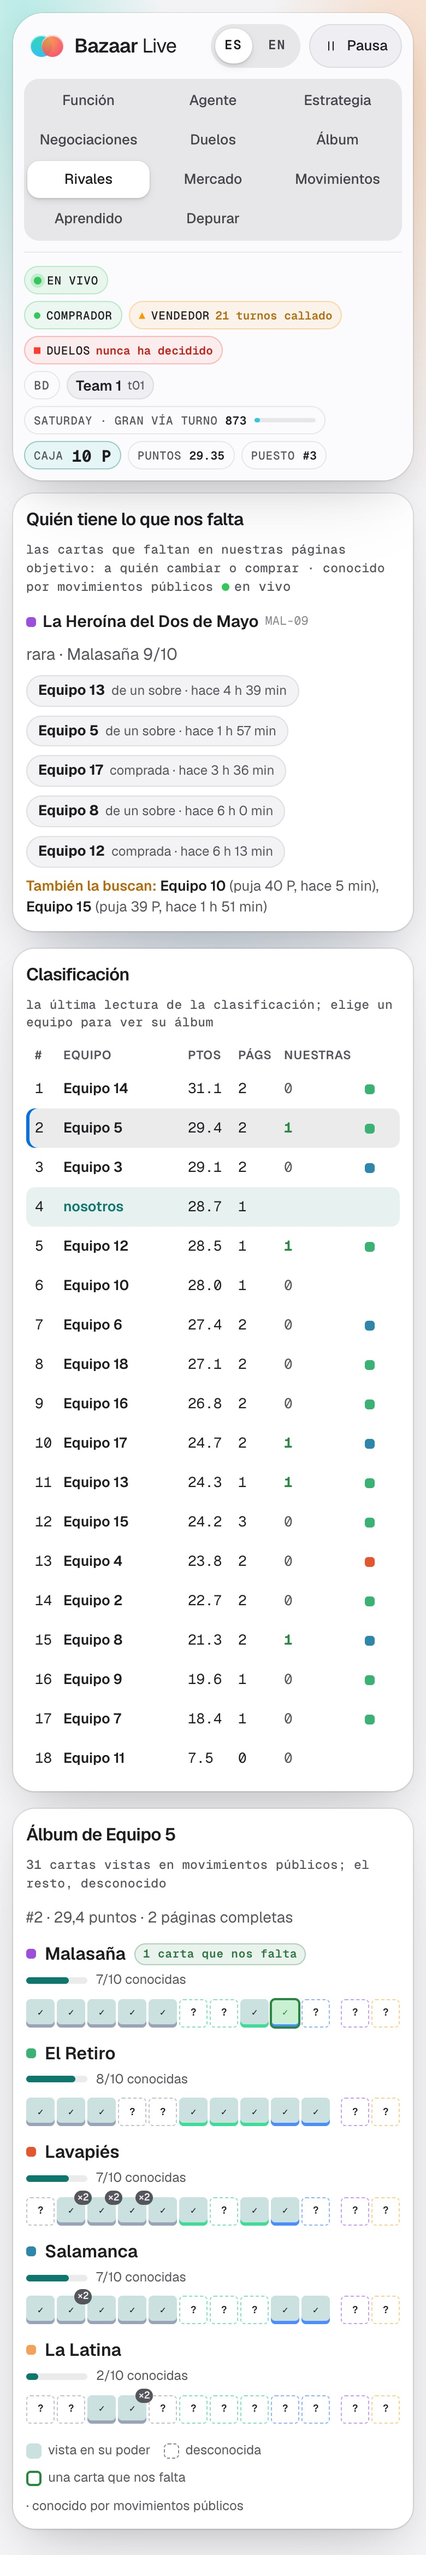
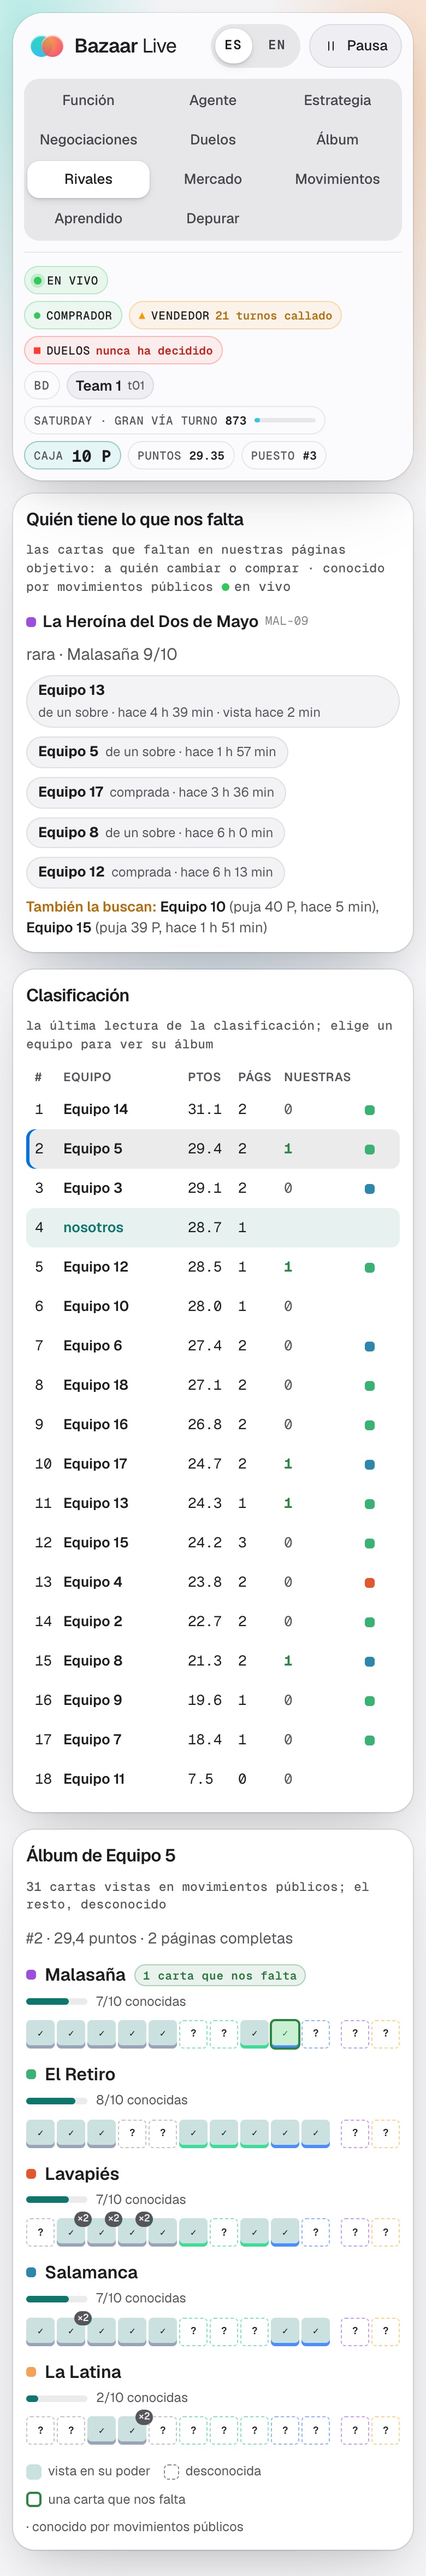
fix: rivals: a listing is a past sighting, the latest sighting on the chip, Los Pícaros by name, no unused helper

diff --git a/src/game/rivalStrings.ts b/src/game/rivalStrings.ts
@@ -22,6 +22,8 @@ export interface RivalStrings {
   /** "bought 3 min ago", for a holder chip's title and the album's cells. */
   readonly since: (how: HowKnown, ago: string) => string
   readonly seen: (ago: string) => string
+  /** On a holder chip: the latest sighting, when later than how it got the card. */
+  readonly seenLast: string
   readonly copies: (n: number) => string
   readonly nobody: string
   readonly dealers: (names: string) => string
@@ -72,9 +74,10 @@ const EN: RivalStrings = {
   needs: 'Who has what we need',
   needsSub: 'the cards our target pages lack: swap or buy targets',
   page: (name, have, of) => `${name} ${have}/${of}`,
-  how: { bought: 'bought', pack: 'from a pack', gift: 'a gift', crafted: 'crafted', listed: 'listed' },
+  how: { bought: 'bought', pack: 'from a pack', gift: 'a gift', crafted: 'crafted', listed: 'seen listed' },
   since: (how, ago) => (how === 'listed' ? `seen listing it ${ago}` : how === 'gift' ? `given ${ago}` : how === 'pack' ? `opened ${ago}` : `${how === 'crafted' ? 'crafted' : 'bought'} ${ago}`),
   seen: (ago) => `last seen ${ago}`,
+  seenLast: 'seen',
   copies: (n) => `×${n}`,
   nobody: 'No team seen holding it in public moves',
   dealers: (names) => `Also held by ${names}`,
@@ -120,9 +123,10 @@ const ES: RivalStrings = {
   needs: 'Quién tiene lo que nos falta',
   needsSub: 'las cartas que faltan en nuestras páginas objetivo: a quién cambiar o comprar',
   page: (name, have, of) => `${name} ${have}/${of}`,
-  how: { bought: 'comprada', pack: 'de un sobre', gift: 'regalo', crafted: 'fabricada', listed: 'a la venta' },
+  how: { bought: 'comprada', pack: 'de un sobre', gift: 'regalo', crafted: 'fabricada', listed: 'vista a la venta' },
   since: (how, ago) => (how === 'listed' ? `la puso a la venta ${ago}` : how === 'gift' ? `se la regalaron ${ago}` : how === 'pack' ? `le salió en un sobre ${ago}` : `${how === 'crafted' ? 'la fabricó' : 'la compró'} ${ago}`),
   seen: (ago) => `vista por última vez ${ago}`,
+  seenLast: 'vista',
   copies: (n) => `×${n}`,
   nobody: 'Ningún equipo la tiene en movimientos públicos',
   dealers: (names) => `También la tiene ${names}`,

diff --git a/src/game/views/rivals.ts b/src/game/views/rivals.ts
@@ -115,8 +115,6 @@ export interface TeamRow {
   readonly chases: string | null
   /** It chases a set we aim for. */
   readonly rival: boolean
-  /** Its fullest page by what we know: the set and its known page cards. */
-  readonly best: { readonly set: string; readonly known: number } | null
 }
 
 /** The set a team's public moves chase most, when its count is above 0. */
@@ -124,20 +122,6 @@ export const chasedSet = (t: Pick<RivalTeam, 'interest'>): string | null => {
   let best: [string, number] | null = null
   for (const [set, n] of Object.entries(t.interest)) if (n > 0 && (!best || n > best[1] || (n === best[1] && set < best[0]))) best = [set, n]
   return best?.[0] ?? null
-}
-
-/** The page cards (the first ten of a set) a holder is known to hold, by set. */
-export function knownBySet(holdings: readonly RivalCard[], holder: string): Map<string, Set<string>> {
-  const out = new Map<string, Set<string>>()
-  for (const h of holdings) {
-    if (h.holder !== holder) continue
-    const [set, num] = h.card.split('-')
-    if (!set || Number(num) > PAGE_SLOTS) continue
-    const known = out.get(set) ?? new Set<string>()
-    known.add(h.card)
-    out.set(set, known)
-  }
-  return out
 }
 
 /** Every team by rank, ours included (marked), with what it holds of our needs and what it chases. */
@@ -149,12 +133,10 @@ export function teamRows(snap: RivalsSnapshot, s: State, needs: readonly Need[] 
     .map((t) => {
       const us = t.team === s.team
       const chases = chasedSet(t)
-      let best: TeamRow['best'] = null
-      for (const [set, known] of knownBySet(snap.holdings, t.team)) if (!best || known.size > best.known || (known.size === best.known && set < best.set)) best = { set, known: known.size }
       return {
         team: t.team, rank: t.rank, score: t.score, pages: t.pages, us,
         holdsNeeds: us ? 0 : snap.holdings.filter((h) => h.holder === t.team && wanted.has(h.card)).length,
-        chases, rival: !us && chases !== null && aims.has(chases), best,
+        chases, rival: !us && chases !== null && aims.has(chases),
       }
     })
 }

diff --git a/src/game/views/rivals.test.ts b/src/game/views/rivals.test.ts
@@ -3,7 +3,7 @@ import { EMPTY_RIVALS, type RivalCard, type RivalsSnapshot, type RivalTeam } fro
 import { mockRivals, rivalsStateOf } from '../rivals.ts'
 import { GAME_STRINGS } from '../strings.ts'
 import { apply, createState, type GameEvent, type Payload } from '../state.ts'
-import { CHASE_TICKS, chasedSet, knownBySet, needRows, needsOf, nowOf, pickTeam, rivalAlbum, teamRows } from './rivals.ts'
+import { CHASE_TICKS, chasedSet, needRows, needsOf, nowOf, pickTeam, rivalAlbum, teamRows } from './rivals.ts'
 
 let nextId = 1
 const ev = (type: string, payload: Payload = {}, tick = 500): GameEvent => ({ id: nextId++, tick, t: 0.1, type, scope: 'public', actor: '', payload })
@@ -106,7 +106,6 @@ describe('teamRows', () => {
       ['t01', 3, true, 0, null, false],
       ['t09', 4, false, 0, null, false],
     ])
-    expect(rows[1]?.best).toEqual({ set: 'BBB', known: 2 })
   })
 
   it('picks the team asked for (case aside), else the best-ranked rival holding most of our needs; never us', () => {
@@ -136,11 +135,6 @@ describe('rivalAlbum', () => {
     expect(lav?.slots[9]).toMatchObject({ ref: 'LAV-10', need: true, known: { copies: 2, how: 'bought', since: 300, seen: 450 } })
     expect(lav?.slots[10]?.known?.how).toBe('pack')
     expect(lav?.slots[0]).toMatchObject({ ref: 'LAV-01', known: null, need: false, name: 'La Corrala' })
-  })
-
-  it('counts a holder\'s known page cards by set, the specials apart', () => {
-    const k = knownBySet([card('t07', 'MAL-01'), card('t07', 'MAL-11'), card('t07', 'MAL-01'), card('t05', 'LAV-02')], 't07')
-    expect([...k.entries()].map(([set, refs]) => [set, [...refs]])).toEqual([['MAL', ['MAL-01']]])
   })
 })
 

diff --git a/src/game/humanize.ts b/src/game/humanize.ts
@@ -43,8 +43,8 @@ export function parseDenial(text: string | null | undefined): Denial | null {
 /** The rarity a `max_price_<rarity>` rule caps, or null. */
 export const rarityOfRule = (rule: string): string | null => /^max_price_([a-z]+)$/.exec(rule)?.[1] ?? null
 
-/** The game's three dealers by their stall names: proper nouns, the same in both languages. */
-const DEALERS: Readonly<Record<string, string>> = { abuela: 'Abuela Carmen', chato: 'El Chato', pilar: 'Doña Pilar' }
+/** The game's dealers by their stall names: proper nouns, the same in both languages. Los Pícaros open at level 4. */
+const DEALERS: Readonly<Record<string, string>> = { abuela: 'Abuela Carmen', chato: 'El Chato', pilar: 'Doña Pilar', picaros: 'Los Pícaros' }
 
 /** Who an id names: a dealer, a rival of the duels, a team (`t06`), a venue (`v03`), or something we keep as written. */
 export type Who =

diff --git a/src/game/humanize.test.ts b/src/game/humanize.test.ts
@@ -24,6 +24,7 @@ describe('whoOf', () => {
   it('names dealers, rivals, teams and venues', () => {
     expect(whoOf('abuela')).toEqual({ kind: 'dealer', name: 'Abuela Carmen' })
     expect(whoOf('chato')).toEqual({ kind: 'dealer', name: 'El Chato' })
+    expect(whoOf('picaros')).toEqual({ kind: 'dealer', name: 'Los Pícaros' })
     expect(whoOf('pilar')).toEqual({ kind: 'dealer', name: 'Doña Pilar' })
     expect(whoOf('rival_sol')).toEqual({ kind: 'rival', name: 'Rival Sol' })
     expect(whoOf('Rival Verde')).toEqual({ kind: 'rival', name: 'Rival Verde' })

diff --git a/src/game/ui/RivalsScreen.tsx b/src/game/ui/RivalsScreen.tsx
@@ -53,6 +53,12 @@ function NeedCard({ n, onPick }: { n: NeedRow; onPick: (team: string) => void })
                 {h.copies > 1 && <span className="rv-copies">{t.copies(h.copies)}</span>}
                 <span className="rv-how">
                   {t.how[h.how]} · <Ago tick={h.since} />
+                  {h.seen > h.since && (
+                    <>
+                      {' · '}
+                      {t.seenLast} <Ago tick={h.seen} />
+                    </>
+                  )}
                 </span>
               </button>
             </li>
